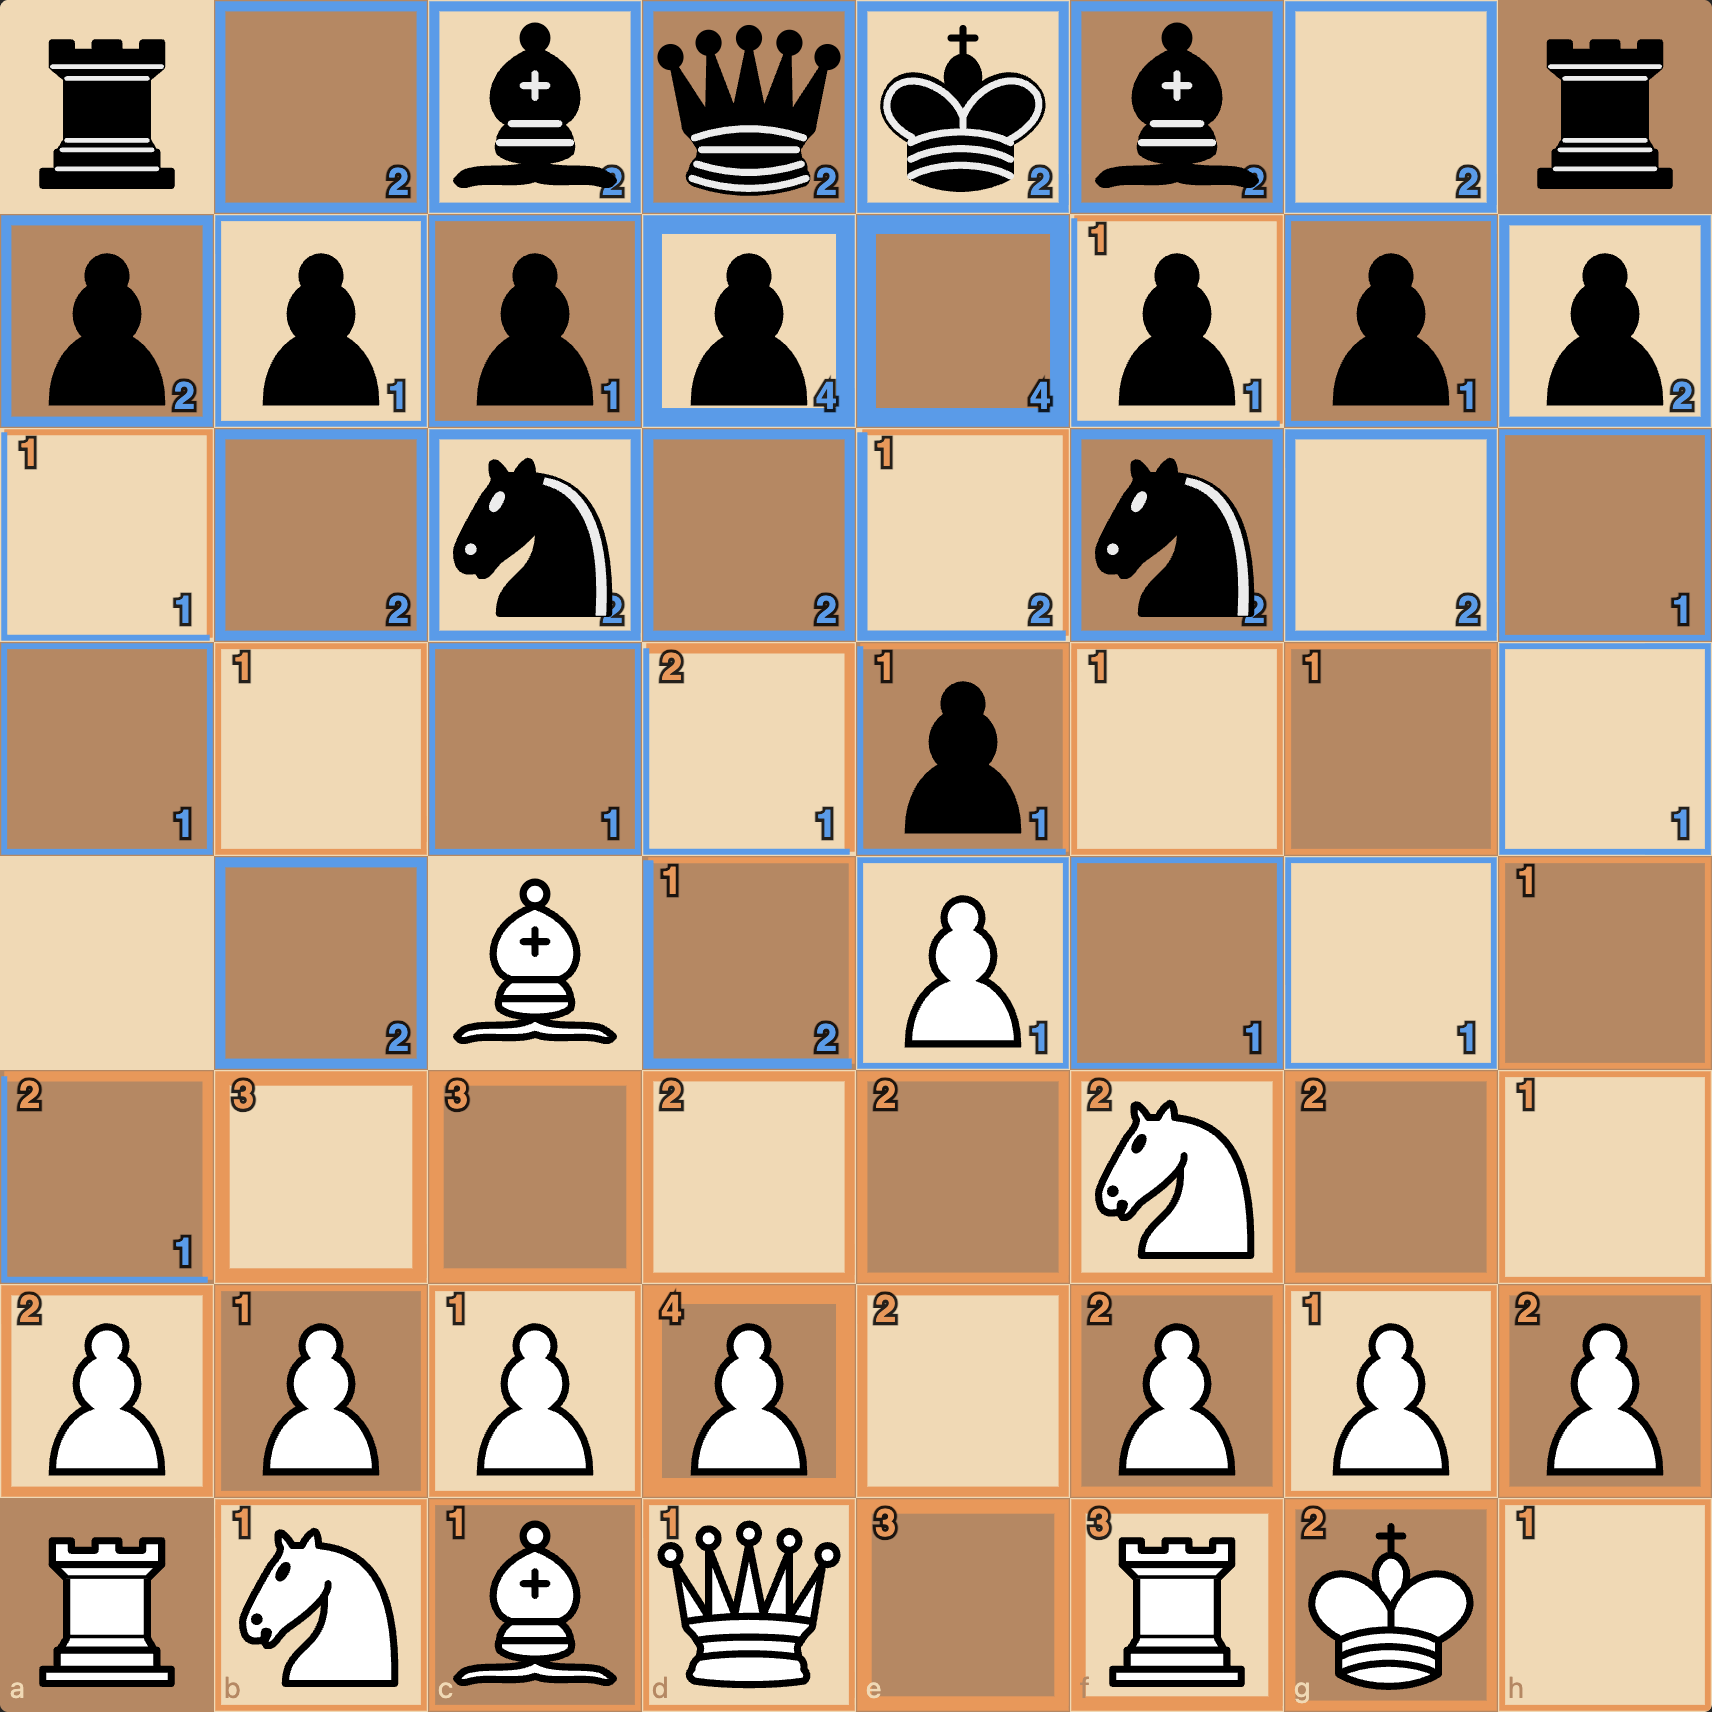
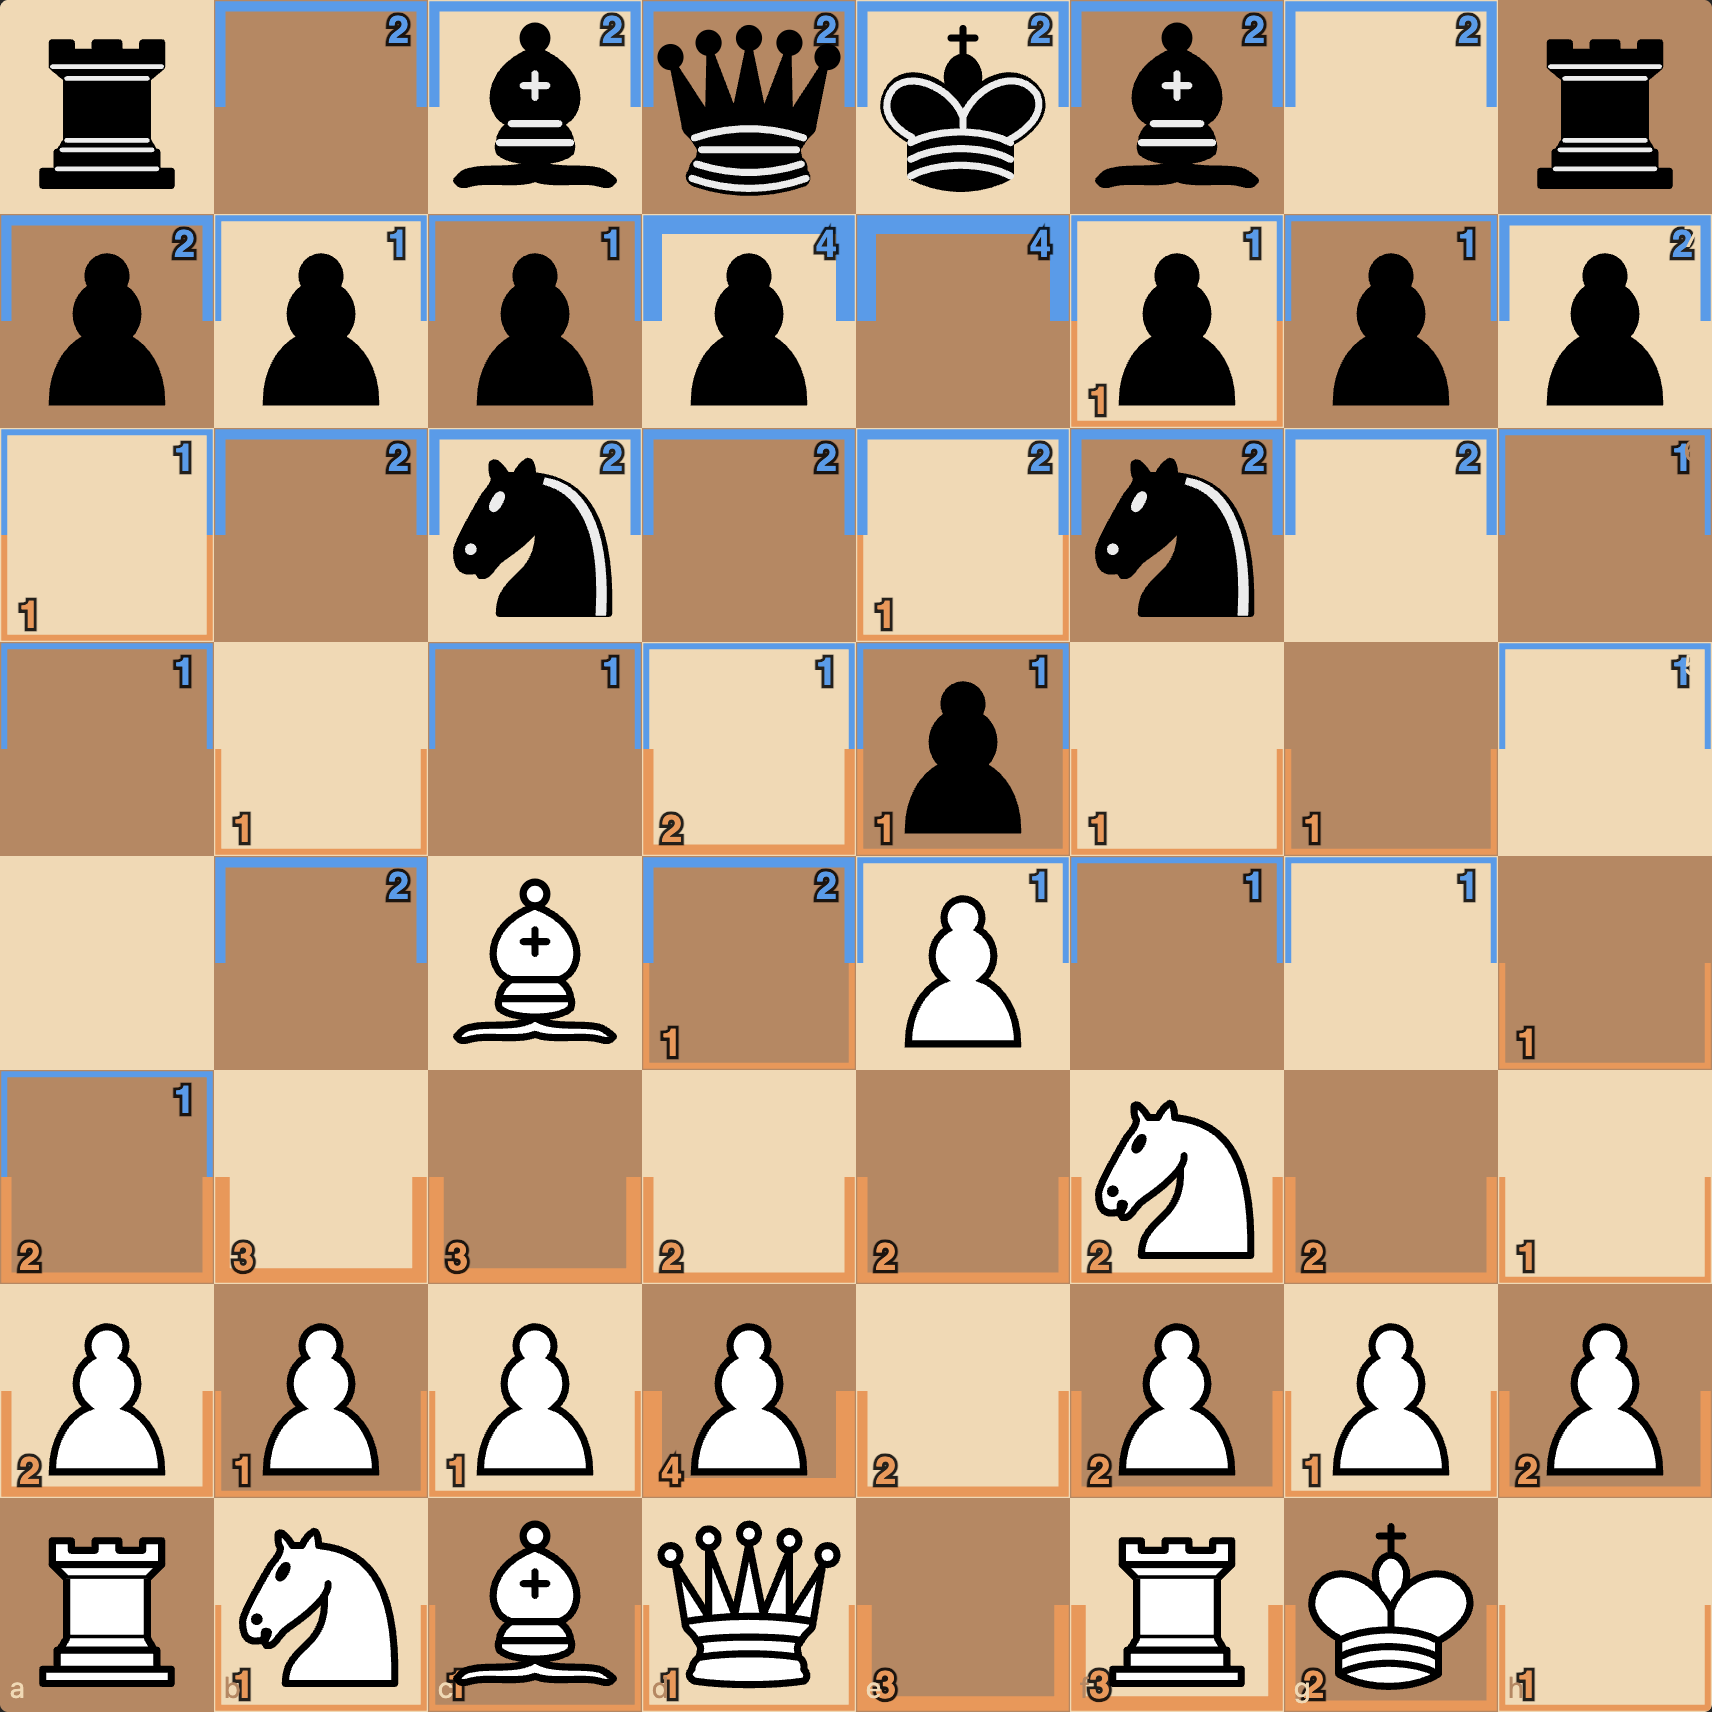
viz1: half-borders per side + counts flipped to match side

diff --git a/js/viz1-control.js b/js/viz1-control.js
@@ -47,53 +47,55 @@ function drawBorders(layer, ctrl) {
     if (wn === 0 && bn === 0) continue;
     const { x, y } = squareXY(i);
 
-    if (wn > 0 && bn === 0) drawFullBorder(layer, x, y, WHITE_RGB, widthFor(wn));
-    else if (bn > 0 && wn === 0) drawFullBorder(layer, x, y, BLACK_RGB, widthFor(bn));
-    else drawSplitBorder(layer, x, y, wn, bn);
+    // White always paints only the BOTTOM half border (white's side of the square).
+    // Black always paints only the TOP half border (black's side).
+    // When both control, the two halves meet at the mid-height of the side edges.
+    if (wn > 0) drawBottomHalf(layer, x, y, WHITE_RGB, widthFor(wn));
+    if (bn > 0) drawTopHalf(layer, x, y, BLACK_RGB, widthFor(bn));
   }
 }
 
-function drawFullBorder(layer, x, y, color, width) {
-  // Inset the rect by half-width so the stroke is fully inside the square.
+// Draws a U-shape: down the left side from middle to bottom, across the bottom, up the right side
+// from bottom to middle. Inset so the stroke stays entirely inside the square.
+function drawBottomHalf(layer, x, y, color, width) {
   const inset = width / 2 + 0.5;
-  const r = el('rect', {
-    x: x + inset, y: y + inset, width: SQ - 2 * inset, height: SQ - 2 * inset,
-    fill: 'none', stroke: rgb(color), 'stroke-width': width, 'stroke-linejoin': 'miter',
+  const points =
+    `${x + inset},${y + SQ / 2} ` +
+    `${x + inset},${y + SQ - inset} ` +
+    `${x + SQ - inset},${y + SQ - inset} ` +
+    `${x + SQ - inset},${y + SQ / 2}`;
+  const p = el('polyline', {
+    points, fill: 'none', stroke: rgb(color), 'stroke-width': width,
+    'stroke-linejoin': 'miter', 'stroke-linecap': 'butt',
   });
-  layer.appendChild(r);
+  layer.appendChild(p);
 }
 
-function drawSplitBorder(layer, x, y, wn, bn) {
-  // Top + right = white, bottom + left = black.
-  // Each pair gets its own stroke width.
-  const wWidth = widthFor(wn);
-  const bWidth = widthFor(bn);
-  const wInset = wWidth / 2 + 0.5;
-  const bInset = bWidth / 2 + 0.5;
-
-  // Use polyline for each L-shape.
-  // Top + right (white):
-  const wPath = el('polyline', {
-    points: `${x + bInset},${y + wInset} ${x + SQ - wInset},${y + wInset} ${x + SQ - wInset},${y + SQ - bInset}`,
-    fill: 'none', stroke: rgb(WHITE_RGB), 'stroke-width': wWidth, 'stroke-linejoin': 'miter',
+// Inverted U: up the left side from middle to top, across the top, down the right side to middle.
+function drawTopHalf(layer, x, y, color, width) {
+  const inset = width / 2 + 0.5;
+  const points =
+    `${x + inset},${y + SQ / 2} ` +
+    `${x + inset},${y + inset} ` +
+    `${x + SQ - inset},${y + inset} ` +
+    `${x + SQ - inset},${y + SQ / 2}`;
+  const p = el('polyline', {
+    points, fill: 'none', stroke: rgb(color), 'stroke-width': width,
+    'stroke-linejoin': 'miter', 'stroke-linecap': 'butt',
   });
-  // Bottom + left (black):
-  const bPath = el('polyline', {
-    points: `${x + SQ - wInset},${y + SQ - bInset} ${x + bInset},${y + SQ - bInset} ${x + bInset},${y + wInset}`,
-    fill: 'none', stroke: rgb(BLACK_RGB), 'stroke-width': bWidth, 'stroke-linejoin': 'miter',
-  });
-  layer.appendChild(wPath);
-  layer.appendChild(bPath);
+  layer.appendChild(p);
 }
 
 function drawCounts(layer, ctrl) {
+  // White's count sits near the bottom of the square (closer to white's side of the board).
+  // Black's count sits near the top (closer to black's side).
   for (let i = 0; i < 64; i++) {
     const wn = ctrl[i].w.length;
     const bn = ctrl[i].b.length;
     if (wn === 0 && bn === 0) continue;
     const { x, y } = squareXY(i);
-    if (wn > 0) addCount(layer, x + 8, y + 16, wn, WHITE_RGB, 'start');
-    if (bn > 0) addCount(layer, x + SQ - 8, y + SQ - 8, bn, BLACK_RGB, 'end');
+    if (wn > 0) addCount(layer, x + 8, y + SQ - 6, wn, WHITE_RGB, 'start'); // bottom-left
+    if (bn > 0) addCount(layer, x + SQ - 8, y + 18, bn, BLACK_RGB, 'end'); // top-right
   }
 }
 
@@ -139,8 +141,8 @@ export function buildControls(root, state, onChange) {
 }
 export function legendHTML() {
   return `
-    <div><b>Borders mode:</b> orange = white controls, blue = black controls. Thicker border = more attackers (capped at 4). Contested squares get a split border — white on top+right, black on bottom+left.</div>
+    <div><b>Borders mode:</b> each side colors only its own half of the square's border. White paints the bottom half, black the top — when a square is contested the two colors meet face-to-face at the side edges. Thicker border = more attackers (capped at 4).</div>
     <div style="margin-top: 8px;"><b>Numbers mode:</b> just the digits, no colors — for when the borders feel busy.</div>
-    <div style="margin-top: 8px;">Numeric badges in opposing corners always reflect each side's attacker count.</div>
+    <div style="margin-top: 8px;">Numeric badges: white's count sits at the bottom of each square (white's side), black's count at the top.</div>
   `;
 }
